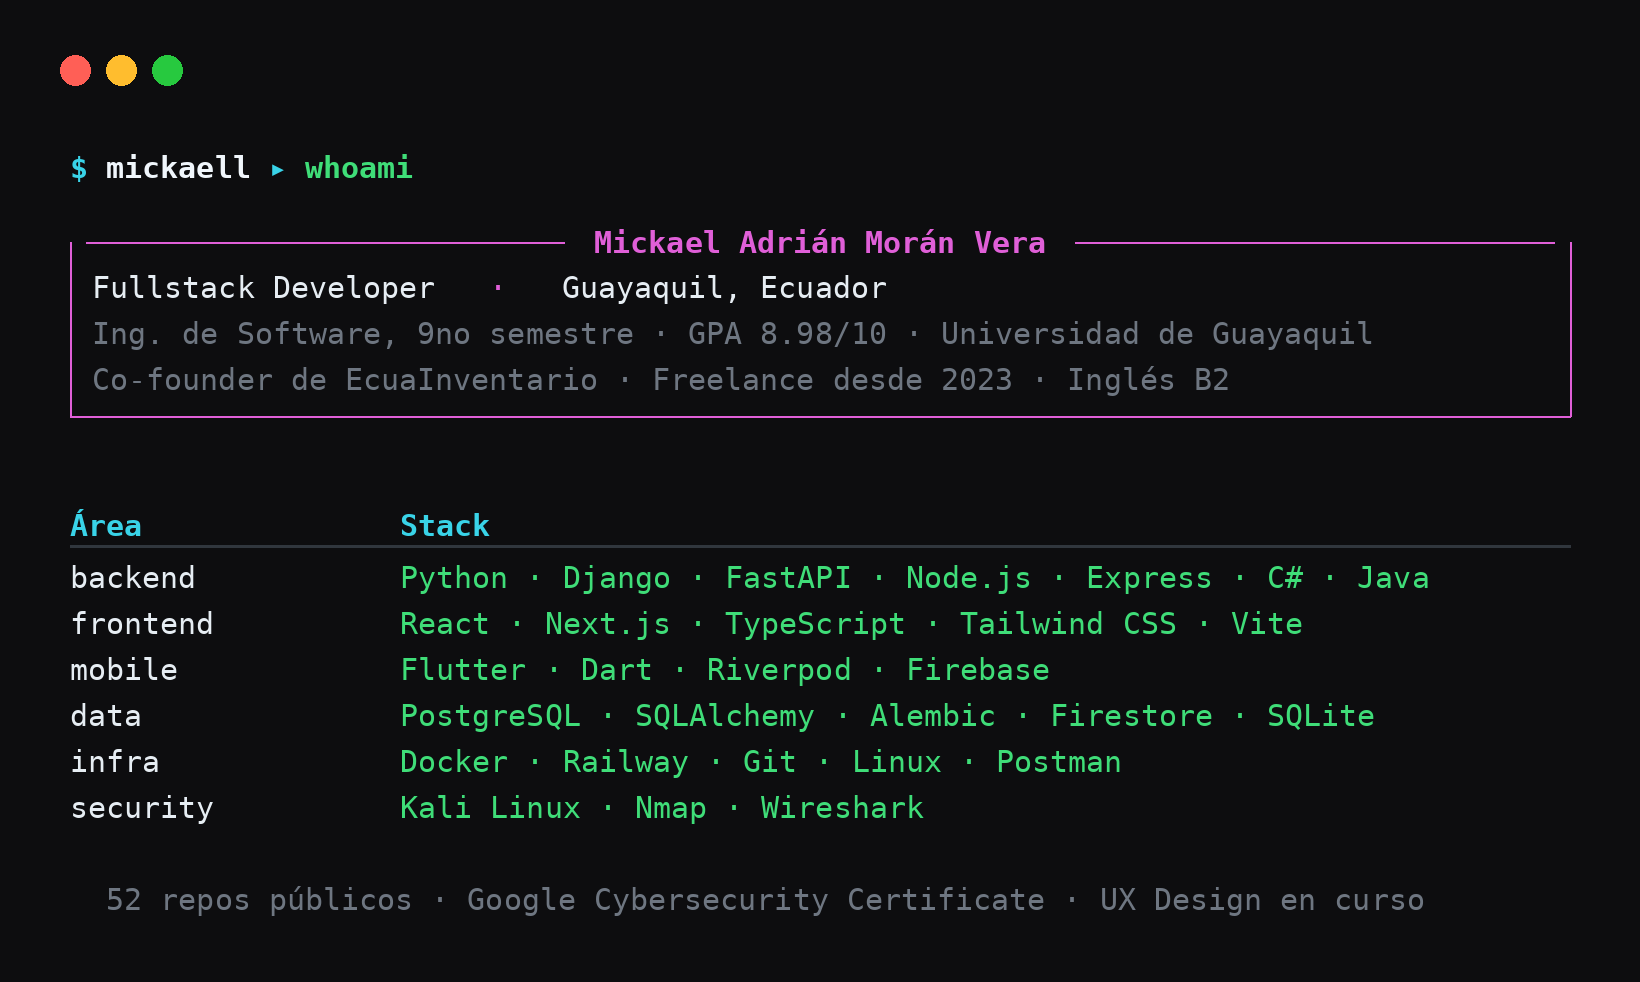
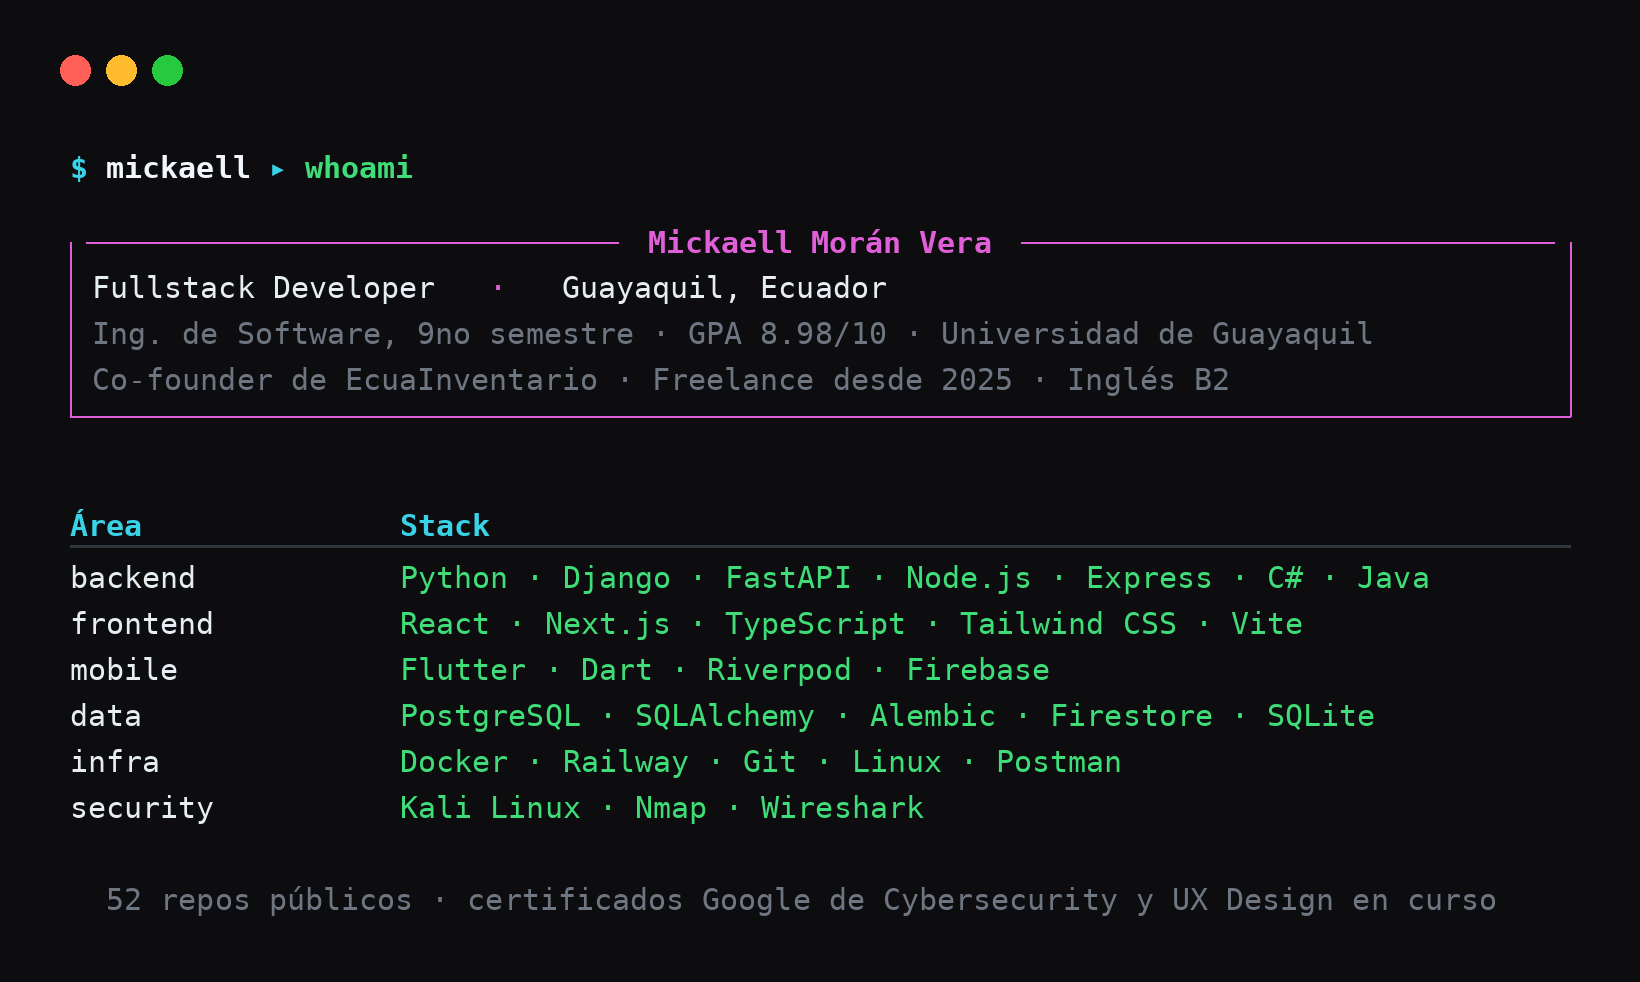
Corrige los datos del perfil segun el CV vigente
- Nombre completo: Mickaell Moran Vera
- Certificados Google de Cybersecurity y UX Design: en curso, no completados
- Freelance desde jul 2025, EcuaInventario desde feb 2026, pasantia feb 2026

Changed region(s): [[0.311, 0.8859, 0.622, 0.947], [0.3421, 0.2138, 0.653, 0.2749], [0.653, 0.8859, 0.9018, 0.947]]

diff --git a/docs/screenshots/render_hero.py b/docs/screenshots/render_hero.py
@@ -8,10 +8,10 @@ from PIL import Image, ImageDraw, ImageFont
 # ------- CONFIG (datos REALES: CV + api.github.com/users/Mickaell22) -------
 OUT = "docs/screenshots/hero.png"
 PROMPT = [("$ ", "cyan"), ("mickaell ", "white"), ("▸ ", "cyan"), ("whoami", "green")]
-BOX_TITLE = " Mickael Adrián Morán Vera "
+BOX_TITLE = " Mickaell Morán Vera "
 BOX_LINE1 = [("Fullstack Developer", "fg"), ("   ·   ", "magenta"), ("Guayaquil, Ecuador", "fg")]
 BOX_LINE2 = "Ing. de Software, 9no semestre · GPA 8.98/10 · Universidad de Guayaquil"
-BOX_LINE3 = "Co-founder de EcuaInventario · Freelance desde 2023 · Inglés B2"
+BOX_LINE3 = "Co-founder de EcuaInventario · Freelance desde 2025 · Inglés B2"
 COL_HEADERS = ("Área", "Stack")
 ROWS = [
     ("backend",   "Python · Django · FastAPI · Node.js · Express · C# · Java"),
@@ -24,7 +24,7 @@ ROWS = [
 SHOWN = 13
 REST_LABEL = "… y {n} más"
 TOTAL = len(ROWS)
-FOOTER = "52 repos públicos · Google Cybersecurity Certificate · UX Design en curso"
+FOOTER = "52 repos públicos · certificados Google de Cybersecurity y UX Design en curso"
 # --------------------------------------------------
 
 C = {"bg": "#0d0d0f", "fg": "#e6edf3", "dim": "#6e7681", "cyan": "#39d3e8",

diff --git a/README.md b/README.md
@@ -38,9 +38,9 @@
 
 ## About
 
-9th-semester Software Engineering student at Universidad de Guayaquil (GPA 8.98/10), co-founder of a SaaS in production and freelance developer since 2023. I work end to end: database design, API, web and mobile client, deployment.
+9th-semester Software Engineering student at Universidad de Guayaquil (GPA 8.98/10), co-founder of a SaaS in production and freelance developer since 2025. I work end to end: database design, API, web and mobile client, deployment.
 
-*Estudiante de 9no semestre de Ingeniería de Software en la Universidad de Guayaquil (GPA 8.98/10), co-fundador de un SaaS en producción y desarrollador freelance desde 2023. Trabajo de punta a punta: diseño de base de datos, API, cliente web y móvil, despliegue.*
+*Estudiante de 9no semestre de Ingeniería de Software en la Universidad de Guayaquil (GPA 8.98/10), co-fundador de un SaaS en producción y desarrollador freelance desde 2025. Trabajo de punta a punta: diseño de base de datos, API, cliente web y móvil, despliegue.*
 
 ---
 
@@ -124,20 +124,23 @@
 
 ## Experience
 
-**Co-founder & Fullstack Developer** — EcuaInventario · 2024 – present
+**Co-founder & Fullstack Developer** — EcuaInventario · Feb 2026 – present
 <br/>Multitenancy architecture with per-tenant data isolation and subscription billing, Django 5 + DRF + PostgreSQL backend, Flutter mobile app with real-time sync via Firebase, and an AI assistant for inventory queries and automated reports.
 
-**Fullstack Developer (freelance)** — Guayaquil · 2023 – present
+**Fullstack Developer (freelance)** — Guayaquil · Jul 2025 – present
 <br/>Clinical management system for Centro Tía Glenda, e-invoicing integrated with Ecuador's SRI, university exam simulator and a workshop management system — from database to deployment.
 
-**Software Development Intern** — Leveling Area, Universidad de Guayaquil · 2025 (6 months)
+**Software Development Intern** — Leveling Area, Universidad de Guayaquil · Feb 2026 (6 months)
 <br/>Led frontend, backend, testing and deployment of the SimuladorPreguntas platform for institutional use; automated registration and report-generation workflows with Python.
 
 ### Education
 
 **B.Sc. Software Engineering** — Universidad de Guayaquil · 2021 – present · GPA 8.98/10
 
-![Google Cybersecurity](https://img.shields.io/badge/Google-Cybersecurity_Certificate_2025-4285F4?style=flat-square&logo=google&logoColor=white)
+**Google / Coursera** — Professional Certificate in Cybersecurity · in progress (1 of 4 courses)
+<br/>**Google / Coursera** — Professional Certificate in UX Design · in progress (2 of 8 courses)
+
+![Google Cybersecurity](https://img.shields.io/badge/Google-Cybersecurity_in_progress-4285F4?style=flat-square&logo=google&logoColor=white)
 ![Google UX Design](https://img.shields.io/badge/Google-UX_Design_in_progress-4285F4?style=flat-square&logo=google&logoColor=white)
 ![English B2](https://img.shields.io/badge/English-B2-0B5394?style=flat-square)
 
@@ -145,9 +148,9 @@
 
 ## Security
 
-Google Cybersecurity Professional Certificate (2025) plus hands-on lab work: penetration testing on Windows 7 — reconnaissance, exploitation (EternalBlue, SMB Relay, NTLM), post-exploitation and pivoting. Controlled environment, documented on video. It also shows up in what I build: [QR Shield](https://github.com/Mickaell22/qr-shield) came out of this.
+Active learning, with hands-on labs: penetration testing on Windows 7 — reconnaissance, exploitation (EternalBlue, SMB Relay, NTLM), post-exploitation and pivoting. Controlled environment, documented on video. Currently taking Google's Cybersecurity Professional Certificate. It also shows up in what I build: [QR Shield](https://github.com/Mickaell22/qr-shield) came out of this.
 
-*Certificado de Ciberseguridad de Google y laboratorios propios de pentesting en entorno controlado, documentados en video.*
+*Aprendizaje activo con laboratorios propios de pentesting en entorno controlado, documentados en video. Cursando el certificado de Ciberseguridad de Google.*
 
 [![YouTube](https://img.shields.io/badge/Ver_labs_en_YouTube-FF0000?style=for-the-badge&logo=youtube&logoColor=white)](https://www.youtube.com/@mickaell1335)
 
